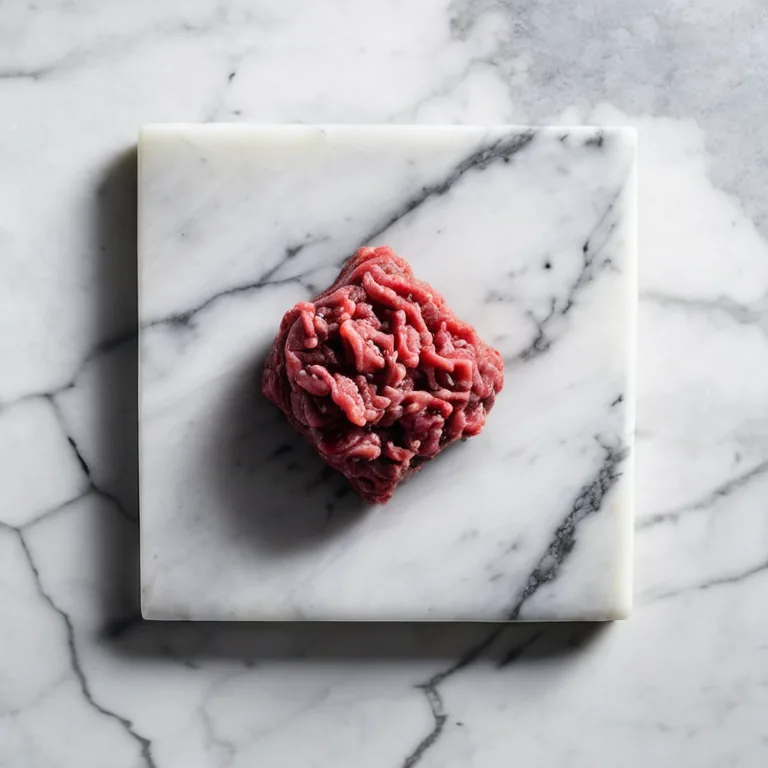
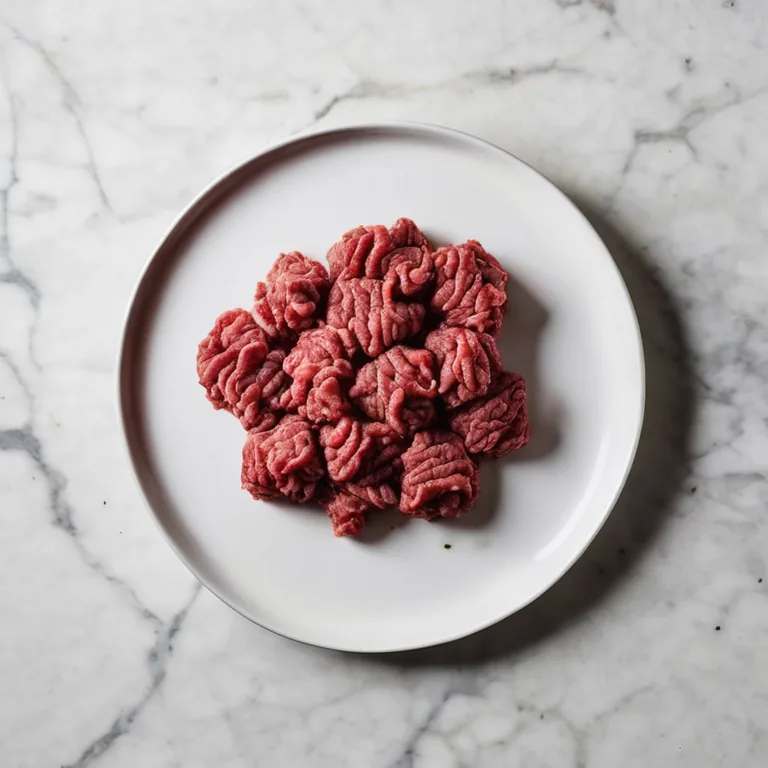
feat(images): shoot the 50 dish and ingredient photos
Generated with the ComfyUI food-photo pipeline (Juggernaut XL v9 Photo), then
reviewed one by one: chicken breast read as fish, lentils as capers, beef mince
as strands, pasta as an odd sprawl and raisins as dates, so those five subjects
were rewritten and reshot until they looked like what they are.

The seed now derives from the subject rather than Python's per-run string hash,
so rewording a prompt changes the image and regenerating it does not.

diff --git a/scripts/generate_images.py b/scripts/generate_images.py
@@ -20,6 +20,7 @@ import sys
 import time
 import urllib.parse
 import urllib.request
+import zlib
 from io import BytesIO
 from pathlib import Path
 
@@ -100,9 +101,10 @@ def generate(kind: str, entry_id: str, subject: str, prompts: dict, template: di
 
     style = prompts["recipeStyle"] if kind == "recipe" else prompts["foodStyle"]
     size = RECIPE_SIZE if kind == "recipe" else FOOD_SIZE
-    # Seed derivee de l'identifiant : une meme entree regenere le meme visuel,
-    # ce qui rend les comparaisons avant/apres lisibles.
-    seed = abs(hash(entry_id)) % 2_147_483_647
+    # Seed derivee du sujet, pas de l'identifiant : reformuler un prompt donne
+    # une image differente, et une regeneration a l'identique redonne la meme.
+    # (crc32 et pas hash() : le hash des chaines varie d'un run a l'autre.)
+    seed = zlib.crc32(f"{entry_id}|{subject}".encode("utf-8")) % 2_147_483_647
 
     workflow = build_workflow(
         template, style.replace("{subject}", subject), prompts["negative"], size, seed
